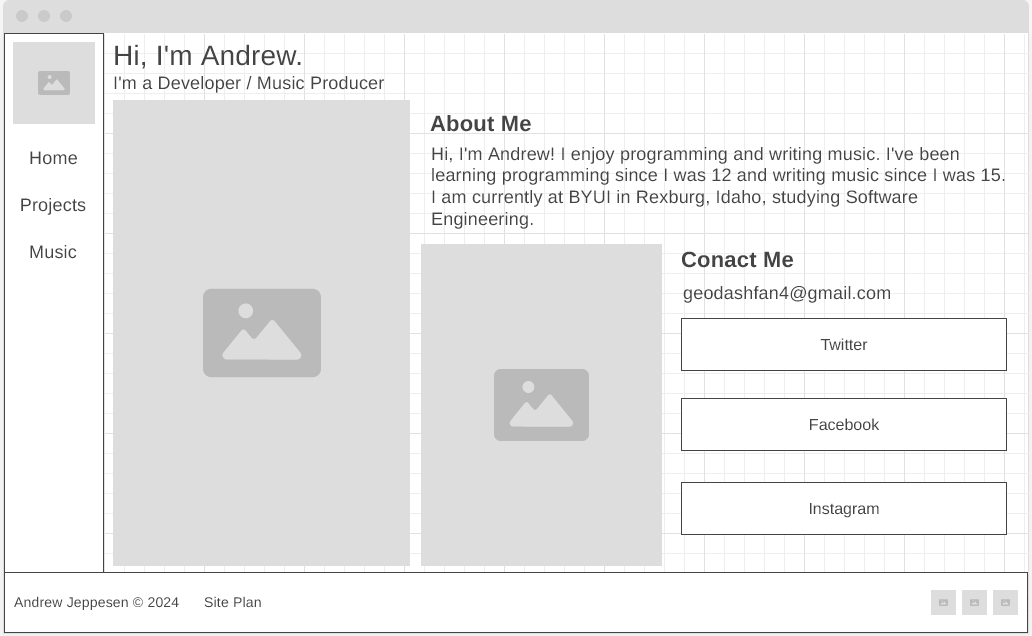
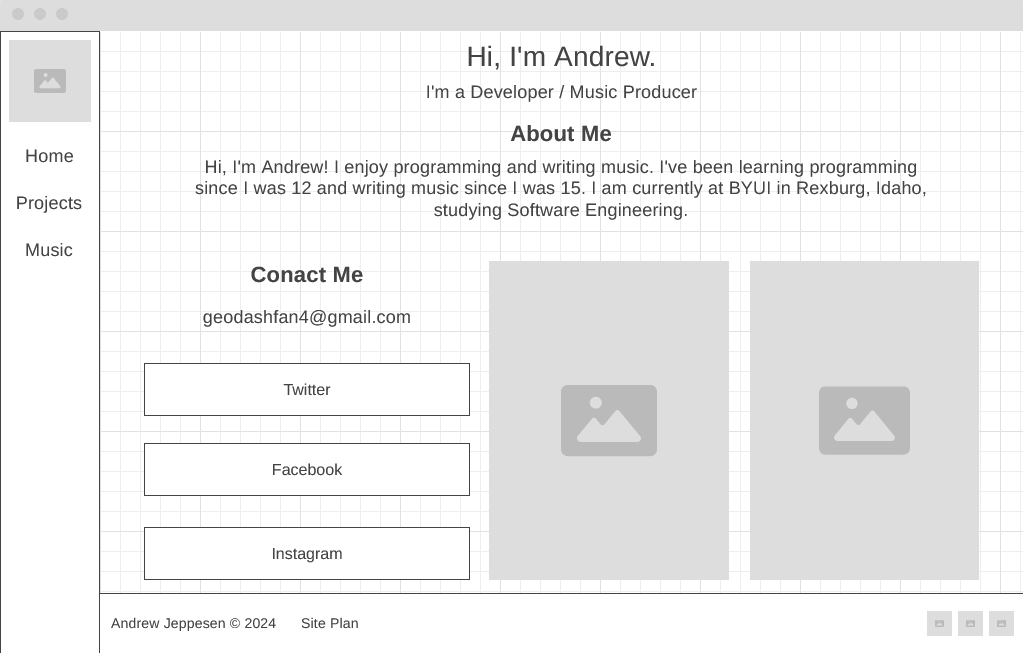
changed wireframes and updated page layouts

diff --git a/personal-site/music.html b/personal-site/music.html
@@ -19,28 +19,32 @@
     </header>
 
     <main>
-        <h1>I write Music</h1>
-        <p>Synthwave / Chillsynth</p>
-        <p>
-            Besides being good with computers, I am also good with music. 
-            When I was just seven years old, my mother started me on piano lessons; 
-            this is when I developed a love for music. 
-            When I was 15, I wrote and published my first song on my YouTube channel. 
-            I wrote it in GarageBand on my iPod Touch using the jazz music theory I learned from piano lessons. 
-            I have also taken up the Organ, drums, and guitar. Since then, I have continued to learn, experiment, and expand my ever-growing music catalog. 
-            As of writing this, I have written 33 songs and three EPs, but there is still lots more to come. 
-            The software I use to write my music is FL Studio Producers Edition, a DAW (digital audio workstation). 
-            I use a Yamaha MODX 7 as my main MIDI keyboard alongside a KORG Minilogue XD. 
-            I specialize in a specific genre of electronic music called synthwave, which involves capturing the sound of the 80's using drum machines and synthesizers. 
-            I use the Arturia V collection 9 and serum as my main synths. I publish my music on my YouTube channel, Soundcloud, and Bandcamp. 
-        </p>
         <div>
-            <a href="https://www.youtube.com/channel/UCABb0dsFe0_xwGE9oON3NLQ">YouTube</a>
-            <a href="https://soundcloud.com/drozax">SoundCloud</a>
-            <a href="">Bandcamp</a>
+            <h1>I write Music</h1>
+            <p>Synthwave / Chillsynth</p>
+            <p>
+                Besides being good with computers, I am also good with music. 
+                When I was just seven years old, my mother started me on piano lessons; 
+                this is when I developed a love for music. 
+                When I was 15, I wrote and published my first song on my YouTube channel. 
+                I wrote it in GarageBand on my iPod Touch using the jazz music theory I learned from piano lessons. 
+                I have also taken up the Organ, drums, and guitar. Since then, I have continued to learn, experiment, and expand my ever-growing music catalog. 
+                As of writing this, I have written 33 songs and three EPs, but there is still lots more to come. 
+                The software I use to write my music is FL Studio Producers Edition, a DAW (digital audio workstation). 
+                I use a Yamaha MODX 7 as my main MIDI keyboard alongside a KORG Minilogue XD. 
+                I specialize in a specific genre of electronic music called synthwave, which involves capturing the sound of the 80's using drum machines and synthesizers. 
+                I use the Arturia V collection 9 and serum as my main synths. I publish my music on my YouTube channel, Soundcloud, and Bandcamp. 
+            </p>
         </div>
-        <img src="images/page2-1.jpg" alt="">
-        <img src="images/page2-2.jpg" alt="">
+        <div>
+            <div id="links">
+                <a href="https://www.youtube.com/channel/UCABb0dsFe0_xwGE9oON3NLQ">YouTube</a>
+                <a href="https://soundcloud.com/drozax">SoundCloud</a>
+                <a href="">Bandcamp</a>
+            </div>
+            <img src="images/page2-1.jpg" alt="">
+            <img src="images/page2-2.jpg" alt="">
+        </div>
     </main>
 
     <footer>

diff --git a/personal-site/projects.html b/personal-site/projects.html
@@ -19,24 +19,28 @@
     </header>
 
     <main>
-        <h1>Im a developer</h1>
-        <p>Web design, software engineering</p>
-        <p>
-            I have always been interested in computers, whether that be how they work or how the games I like playing were made. 
-            I was introduced to the world of computers and computer programming at the age of 12 when I received a Raspberry Pi 3 Model B for Christmas. 
-            The Raspberry Pi 3 Model B is a credit card-size computer that runs Linux and is used for home servers, emulation, and robotics, to name a few. 
-            I used it as a way to learn how to program using a book about Python and a version of Minecraft explicitly made for modification. 
-            When I was 15, I started making games on the popular game platform ROBLOX using the programming language Lua. 
-            I currently know how to program in Python, Lua, and Javascript, and I am learning C++. 
-            I am studying software engineering at BYUI, Idaho, and learning to program games as a hobby. 
-            Any game I have made will be included here, and the source code will be available to be viewed on my GitHub, but I can't promise it will be readable.
-        </p>
-        <img src="images/page3-1.jpg" alt="">
-        <img src="images/page3-2.jpg" alt="">
         <div>
-            <a href="https://dr0zax.github.io/wdd130-24w/wwr/index.html">White Water Rafting Site</a>
-            <a href="https://github.com/Dr0zax">Github</a>
-            <a href="https://www.linkedin.com/in/andrew-jeppesen-3a2690299/">LinkedIn</a>
+            <h1>Im a developer</h1>
+            <p>Web design, software engineering</p>
+            <p>
+                I have always been interested in computers, whether that be how they work or how the games I like playing were made. 
+                I was introduced to the world of computers and computer programming at the age of 12 when I received a Raspberry Pi 3 Model B for Christmas. 
+                The Raspberry Pi 3 Model B is a credit card-size computer that runs Linux and is used for home servers, emulation, and robotics, to name a few. 
+                I used it as a way to learn how to program using a book about Python and a version of Minecraft explicitly made for modification. 
+                When I was 15, I started making games on the popular game platform ROBLOX using the programming language Lua. 
+                I currently know how to program in Python, Lua, and Javascript, and I am learning C++. 
+                I am studying software engineering at BYUI, Idaho, and learning to program games as a hobby. 
+                Any game I have made will be included here, and the source code will be available to be viewed on my GitHub, but I can't promise it will be readable.
+            </p>
+        </div>
+        <div>
+            <div>
+                <a href="https://dr0zax.github.io/wdd130-24w/wwr/index.html">White Water Rafting Site</a>
+                <a href="https://github.com/Dr0zax">Github</a>
+                <a href="https://www.linkedin.com/in/andrew-jeppesen-3a2690299/">LinkedIn</a>
+            </div>
+            <img src="images/page3-1.jpg" alt="">
+            <img src="images/page3-2.jpg" alt="">
         </div>
     </main>
 

diff --git a/personal-site/index.html b/personal-site/index.html
@@ -18,11 +18,9 @@
         </div>
     </header>
     <main>
-        <h1>Hi, I'm Andrew</h1>
-        <p>I'm a developer / music producer</p>
-        <img src="images/portrait.jpg" alt="">
-        <img src="images/temple.jpg" alt="">
         <div id="about-me">
+            <h1>Hi, I'm Andrew</h1>
+            <p>I'm a developer / music producer</p>
             <h2>About Me</h2>
             <p>
                 Hi, I'm Andrew! I enjoy programming and writing music. 
@@ -30,14 +28,18 @@
                 I am currently at BYUI in Rexburg Idaho studying Software Engineering.
             </p>
         </div>
-
-        <div id="contact">
-            <h2>Contact Me</h2>
-            <p>geodashfan4@gmail.com</p>
-            <a href="https://twitter.com/AndrewJepp">Twitter</a>
-            <a href="https://www.facebook.com/profile.php?id=61555229747960">Facebook</a>
-            <a href="https://www.instagram.com/geodashfan4/">Instagram</a>
+        <div>
+            <div id="contact">
+                <h2>Contact Me</h2>
+                <p>geodashfan4@gmail.com</p>
+                <a href="https://twitter.com/AndrewJepp">Twitter</a>
+                <a href="https://www.facebook.com/profile.php?id=61555229747960">Facebook</a>
+                <a href="https://www.instagram.com/geodashfan4/">Instagram</a>
+            </div>
+            <img src="images/portrait.jpg" alt="">
+            <img src="images/temple.jpg" alt="">
         </div>
+
     </main>
 
      <footer>

diff --git a/personal-site/styles/style.css b/personal-site/styles/style.css
@@ -1,10 +1,22 @@
 @import url('https://fonts.googleapis.com/css2?family=Dosis&family=Urbanist:ital@0;1&display=swap');
 
 :root {
-  /* change the values below to your colors from your palette */
   --primary-color: #3b4252;
   --secondary-color: #81A1C1;
   --accent1-color: #8fbcbb;
   --accent2-color: #E5E9F0;
+
+  --heading-font: "Urbanist", Verdana, sans-serif;
+  --paragraph-font: "Dosis", Helvetica, sans-serif;
+
+  --headline-color-on-white: #3b4252;  /* headlines on a white background */ 
+  --headline-color-on-color: #E5E9F0; /* headlines on a colored background */ 
+  --paragraph-color-on-white: #3b4252; /* paragraph text on a white background */ 
+  --paragraph-color-on-color: #E5E9F0; /* paragraph text on a colored background */ 
+  --paragraph-background-color: #3b4252;
+  --nav-link-color: #3b4252;
+  --nav-background-color: #8fbcbb;
+  --nav-hover-link-color: #E5E9F0;
+  --nav-hover-background-color: #3b4252;
 }
 
